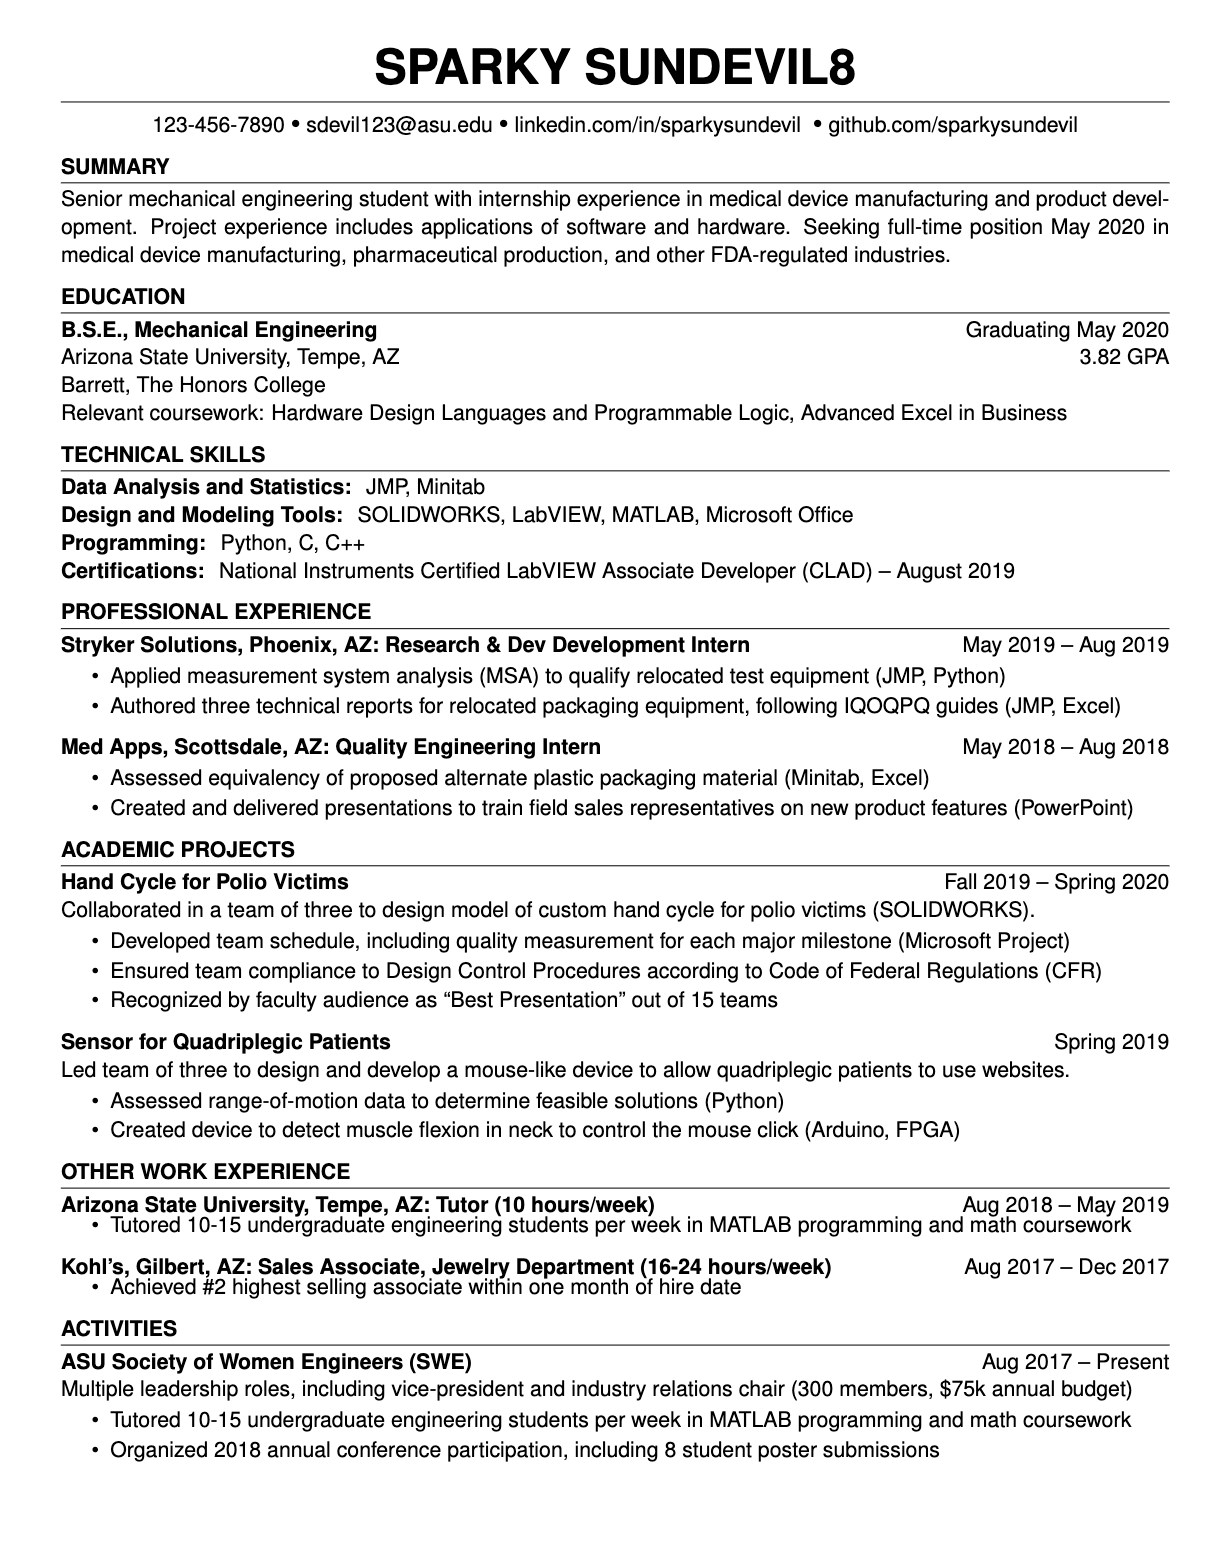
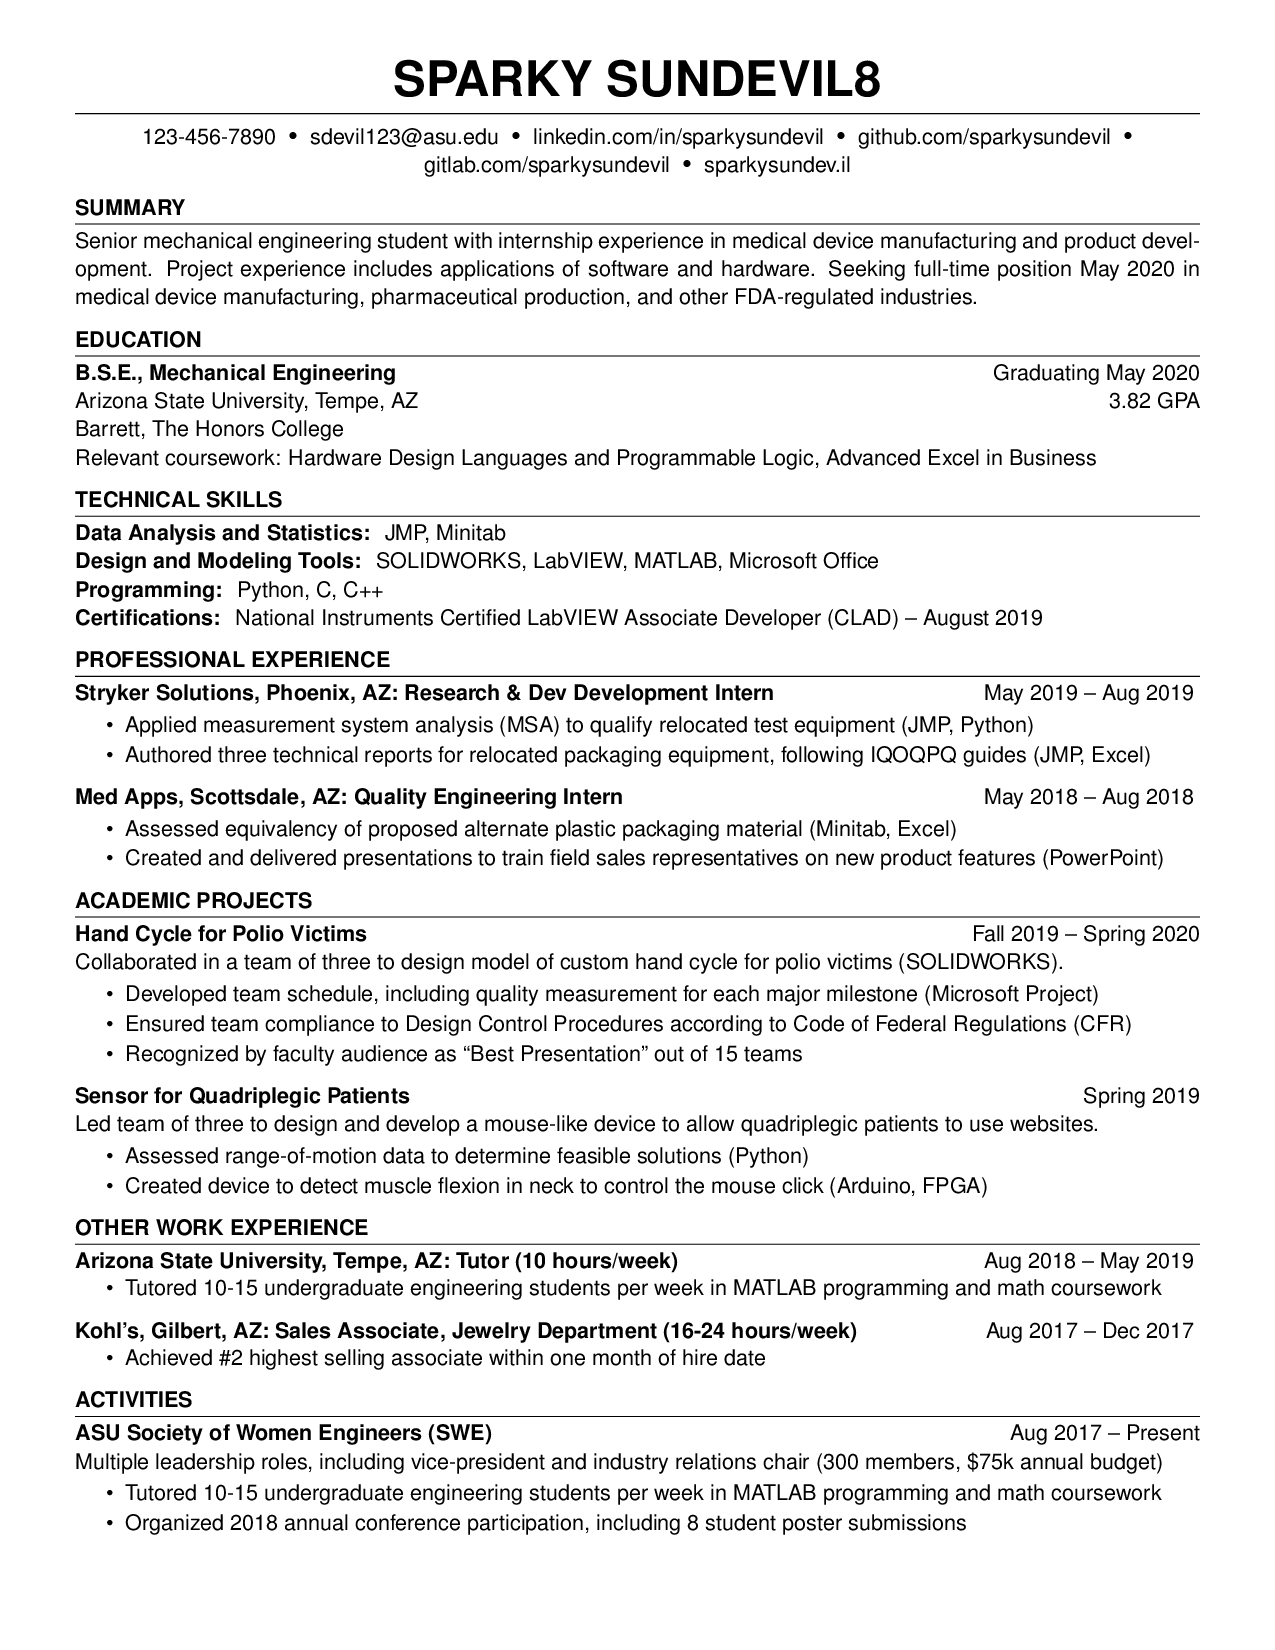
Add `blog` and allow multiple git urls in introduction
- Rename `profilelink` to `httpslink`
- Added a `blog` keycommand in the introduction
- Added a `git` keycommand in the introduction, allowing multiple values
- Refactor nested tree of `expandafter` sections with a flat structure

Changed region(s): [[0.0308, 0.031, 0.9562, 0.9612]]

diff --git a/src/resume.tex b/src/resume.tex
@@ -17,7 +17,8 @@
     email={sdevil123@asu.edu},
     phone={123-456-7890},
     linkedin={linkedin.com/in/sparkysundevil},
-    github={github.com/sparkysundevil}
+    git={github.com/sparkysundevil, gitlab.com/sparkysundevil},
+    blog={sparkysundev.il}
 ]
 
 % --------- Summary -----------

diff --git a/README.md b/README.md
@@ -68,37 +68,11 @@ In your `.tex` file, begin a document class with the parent class of `resume`. (
     email={sparky.sundevil@asu.edu},
     phone={602-555-1212},
     linkedin={linkedin.com/in/sparkysundevil},
-    github={github.com/sparkysundevil}
+    git={github.com/sparkysundevil, gitlab.com/sparkysundevil}
 ]
 ```
 
-If you want to ignore/omit certain items from the introduction, move over to the `Header` section in the `resume.cls` file.
-
-Simply comment the portion of the particular field which is highlighted with `field-name` --> `field-name ends here` just like shown below.
-
-```tex
-\newkeycommand{\introduction}[
-    fullname,
-    email,
-    phone,
-    linkedin,
-    github
-]{%
-    \begin{center}%
-        \printNameTitle{\commandkey{fullname}}% Full name title
-        % \expandafter\ifstrequal\expandafter{linkedin}{}{}% Linkedin field <--- Here
-        %     {%
-        %         \profilelink{\commandkey{linkedin}}
-        %         \expandafter\ifstrequal\expandafter{github}{}
-        %         {%
-        %             % empty %
-        %         }{\separator}%
-        %     }% Linkedin field ends here <--- To here
-    \end{center}%
-}%
-```
-
-The Linkedin field will be removed from the header.
+Fields like `phone`, `linkedin`, `git`, and `blog` are optional and can simply be omitted from the `\introduction` block if not needed. You can also supply a comma-separated list to `git` for multiple profiles.
 
 **Note:** Try to enclose each content inside curly braces `{}`. This helps in parsin special characters.
 
